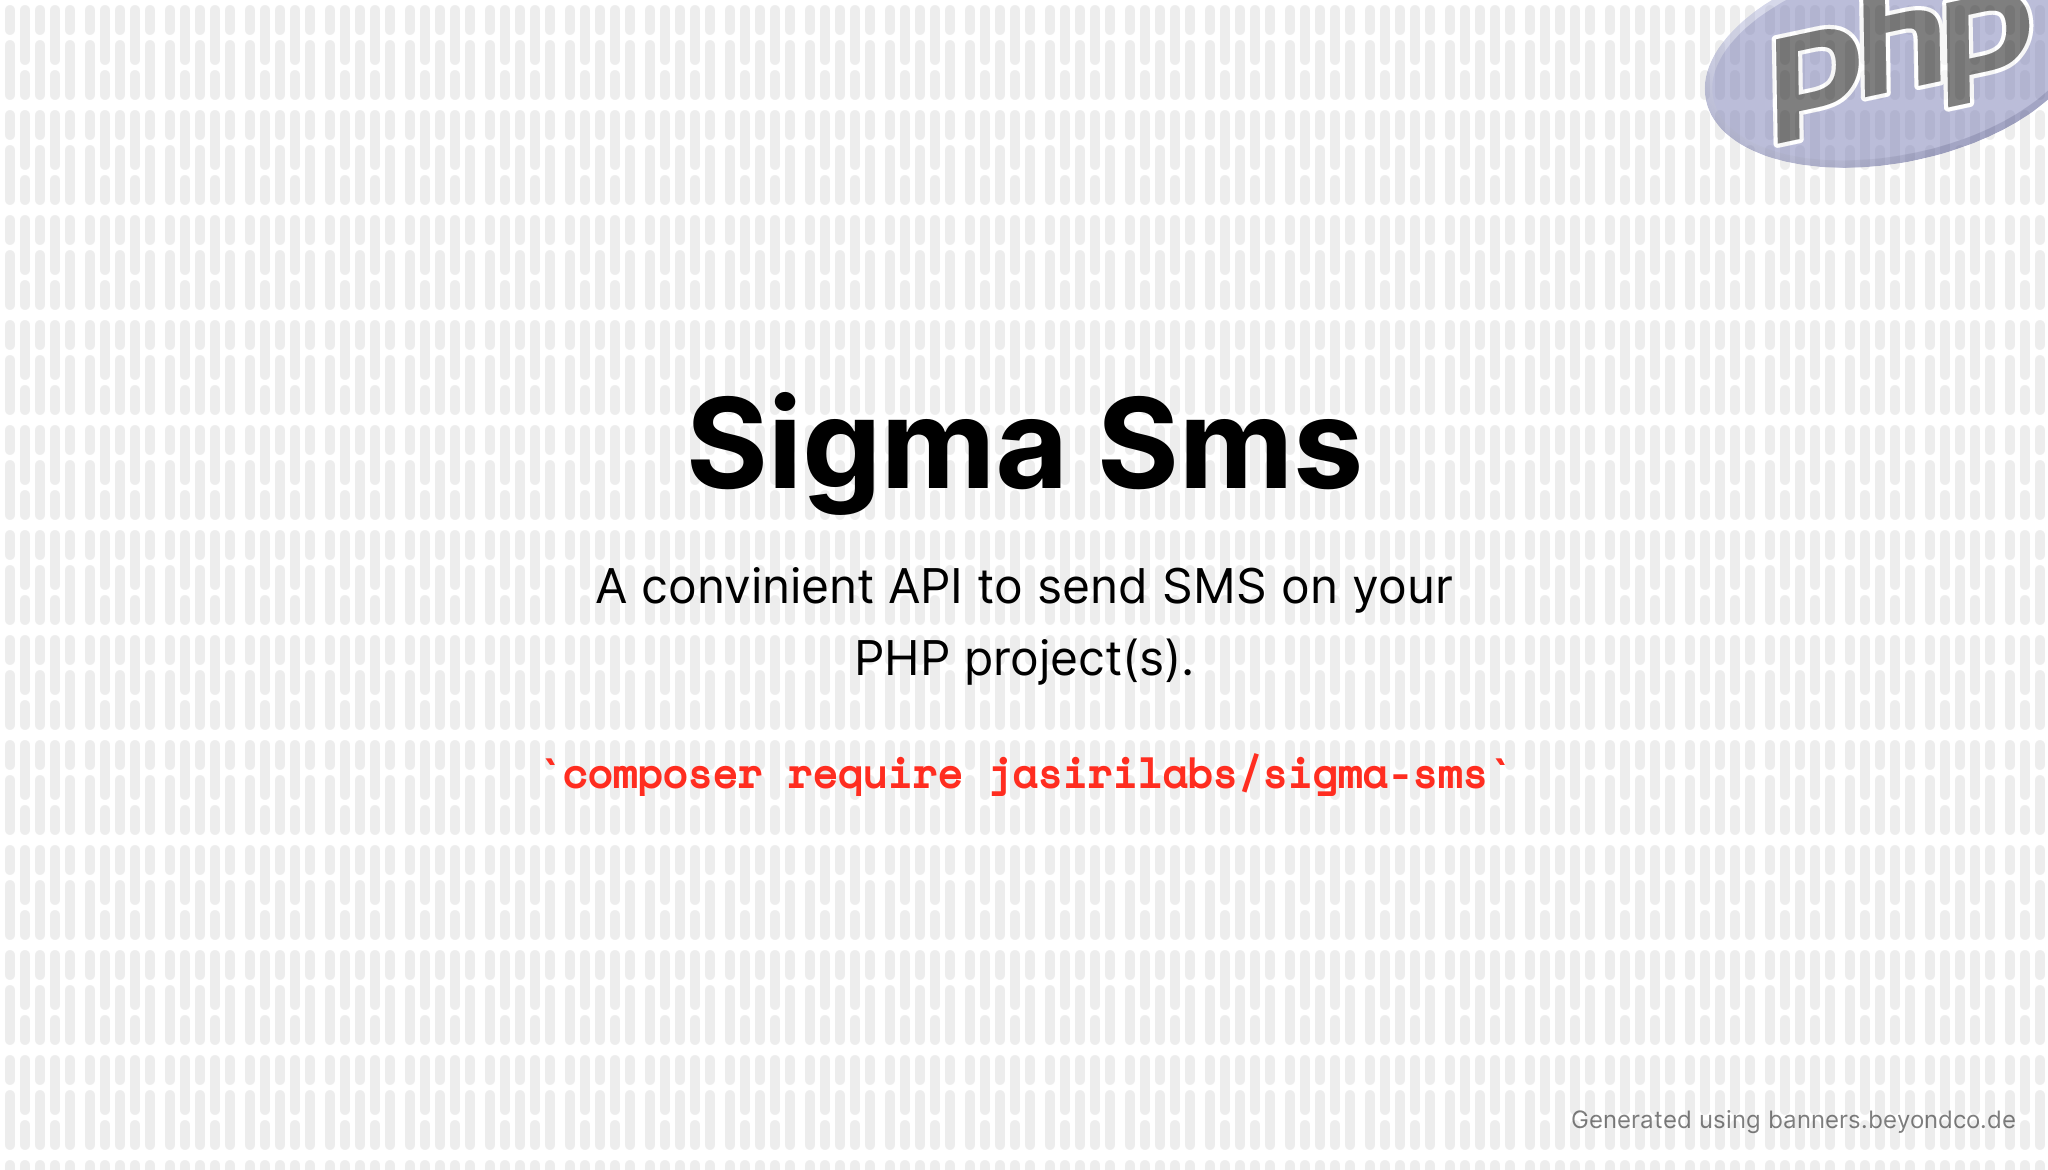
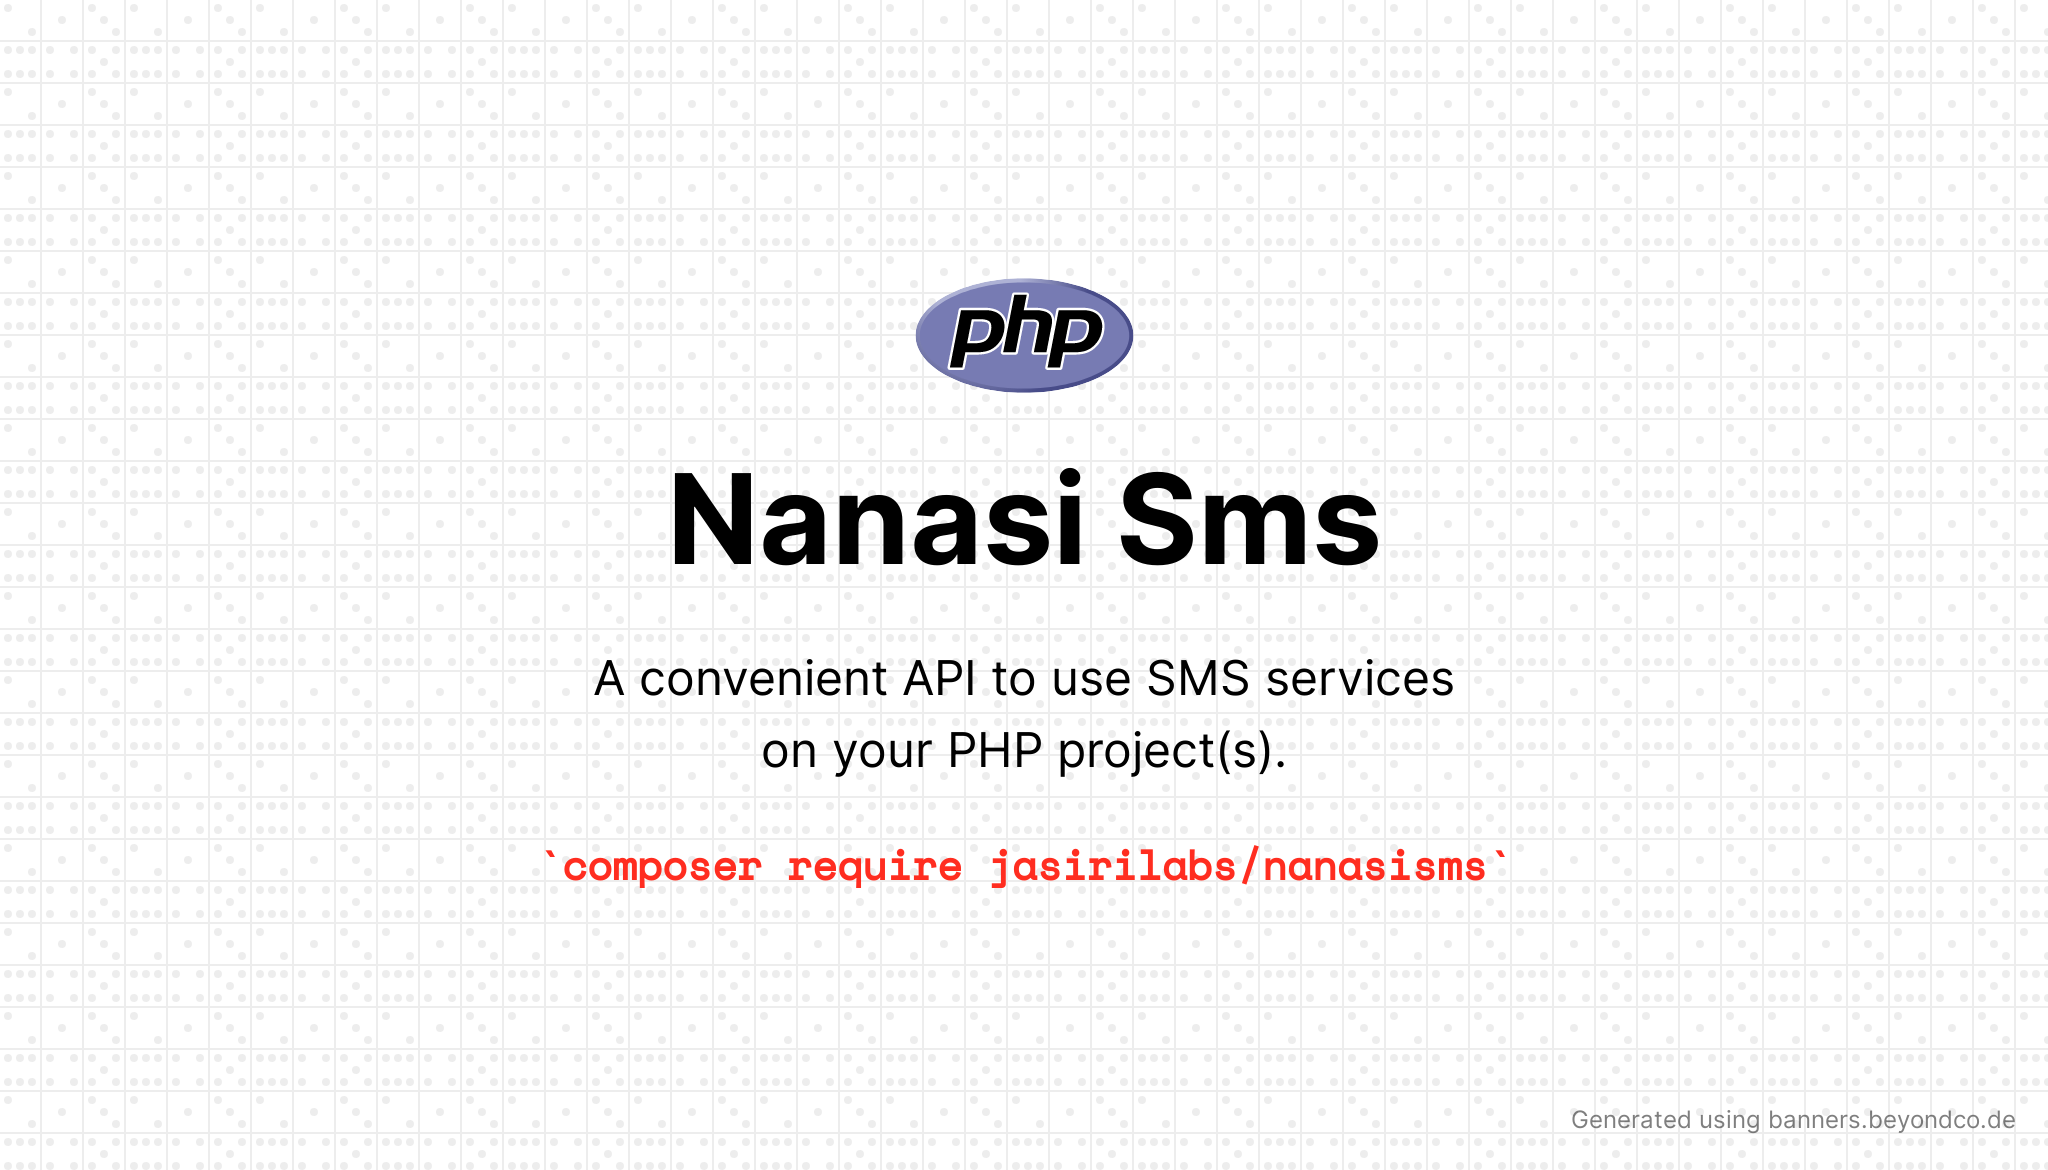
update README

diff --git a/README.md b/README.md
@@ -1,5 +1,5 @@
 <h1 style="text-align: center;">
-Sigma Sms
+Nanasi Sms
 </h1>
 
 ![Banner Image](./docs/banner.png)
@@ -14,13 +14,13 @@ Sigma Sms
 
 ```php
 
-use JasiriLabs\SigmaSMS\Config;
-use JasiriLabs\SigmaSMS\NextSms\NextSmsAdapter;
-use JasiriLabs\SigmaSMS\SigmaSMS;
+use JasiriLabs\NanasiSMS\Config;
+use JasiriLabs\NanasiSMS\NextSms\NextSmsAdapter;
+use JasiriLabs\NanasiSMS\NanasiSMS;
 
 $config = new Config(['username' => 'username', 'password' => 'password']);
 
-$sms = new SigmaSMS(
+$sms = new NanasiSMS(
     new NextSmsAdapter($config),
     []
 );
@@ -40,3 +40,22 @@ $sms->deliveryReport(['limit' => 3])
 $sms->balance()
 
 ```
+
+
+## Contributing 
+
+We value contributions from the community. If you have any questions, please open an issue or pull request.
+
+
+## Security Vulnerabilities
+
+In case of any security issue just email us at  [support@jasirilabs.com](mailto:support@jasirilabs.com)
+
+
+## License
+
+    This project is licensed under the MIT license.
+    See the LICENSE file for more information.
+
+
+
